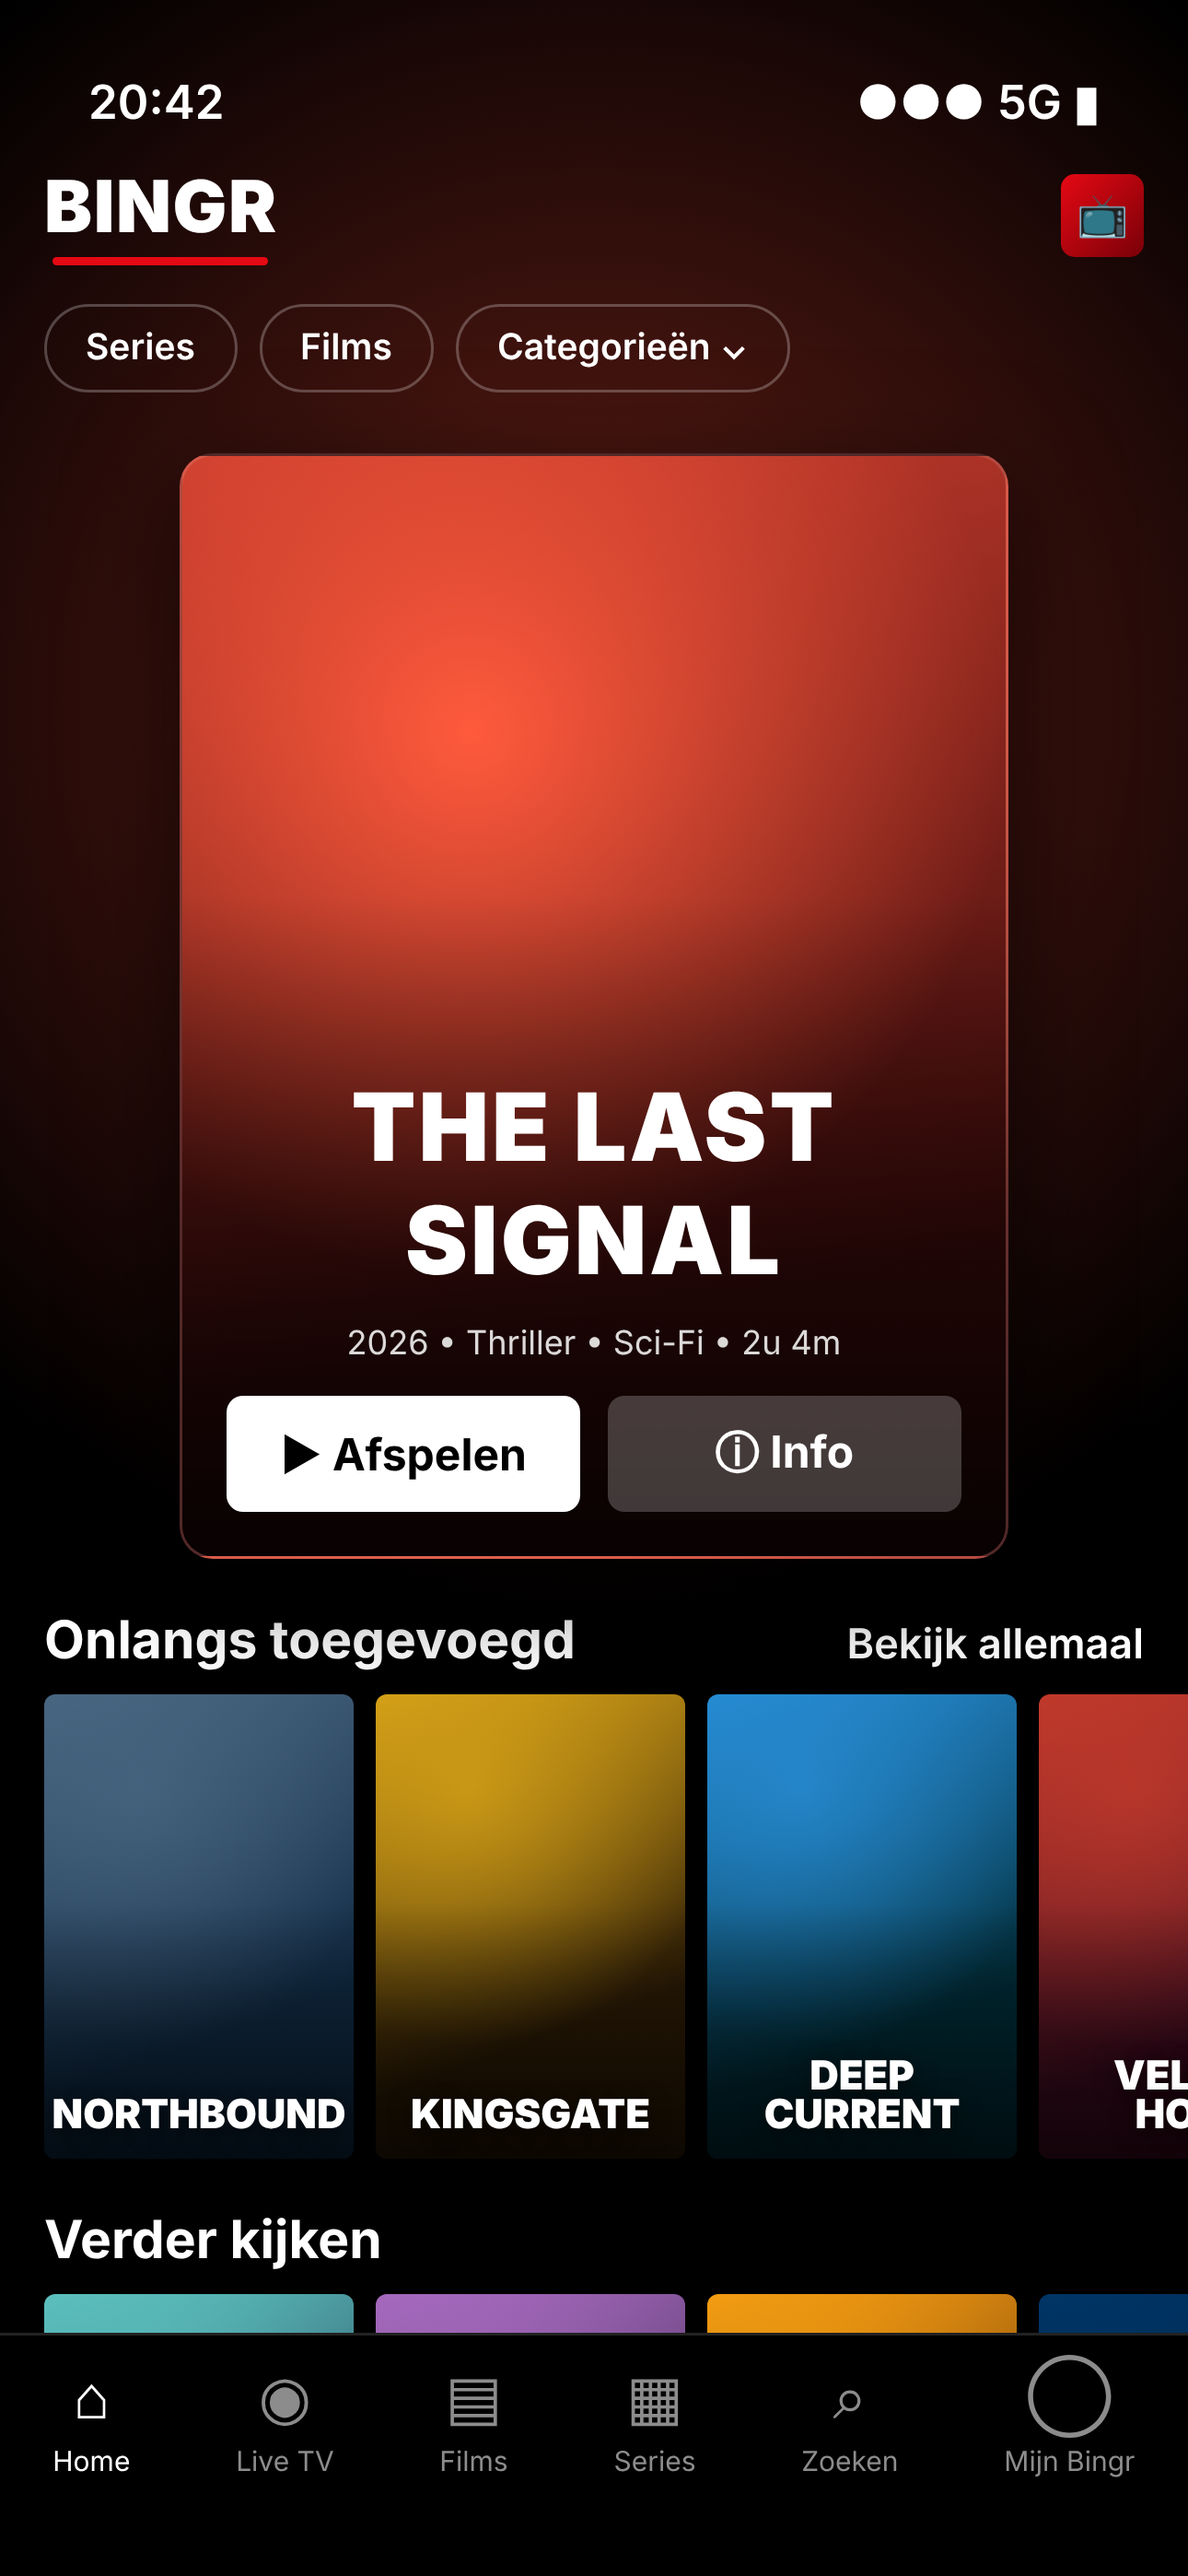
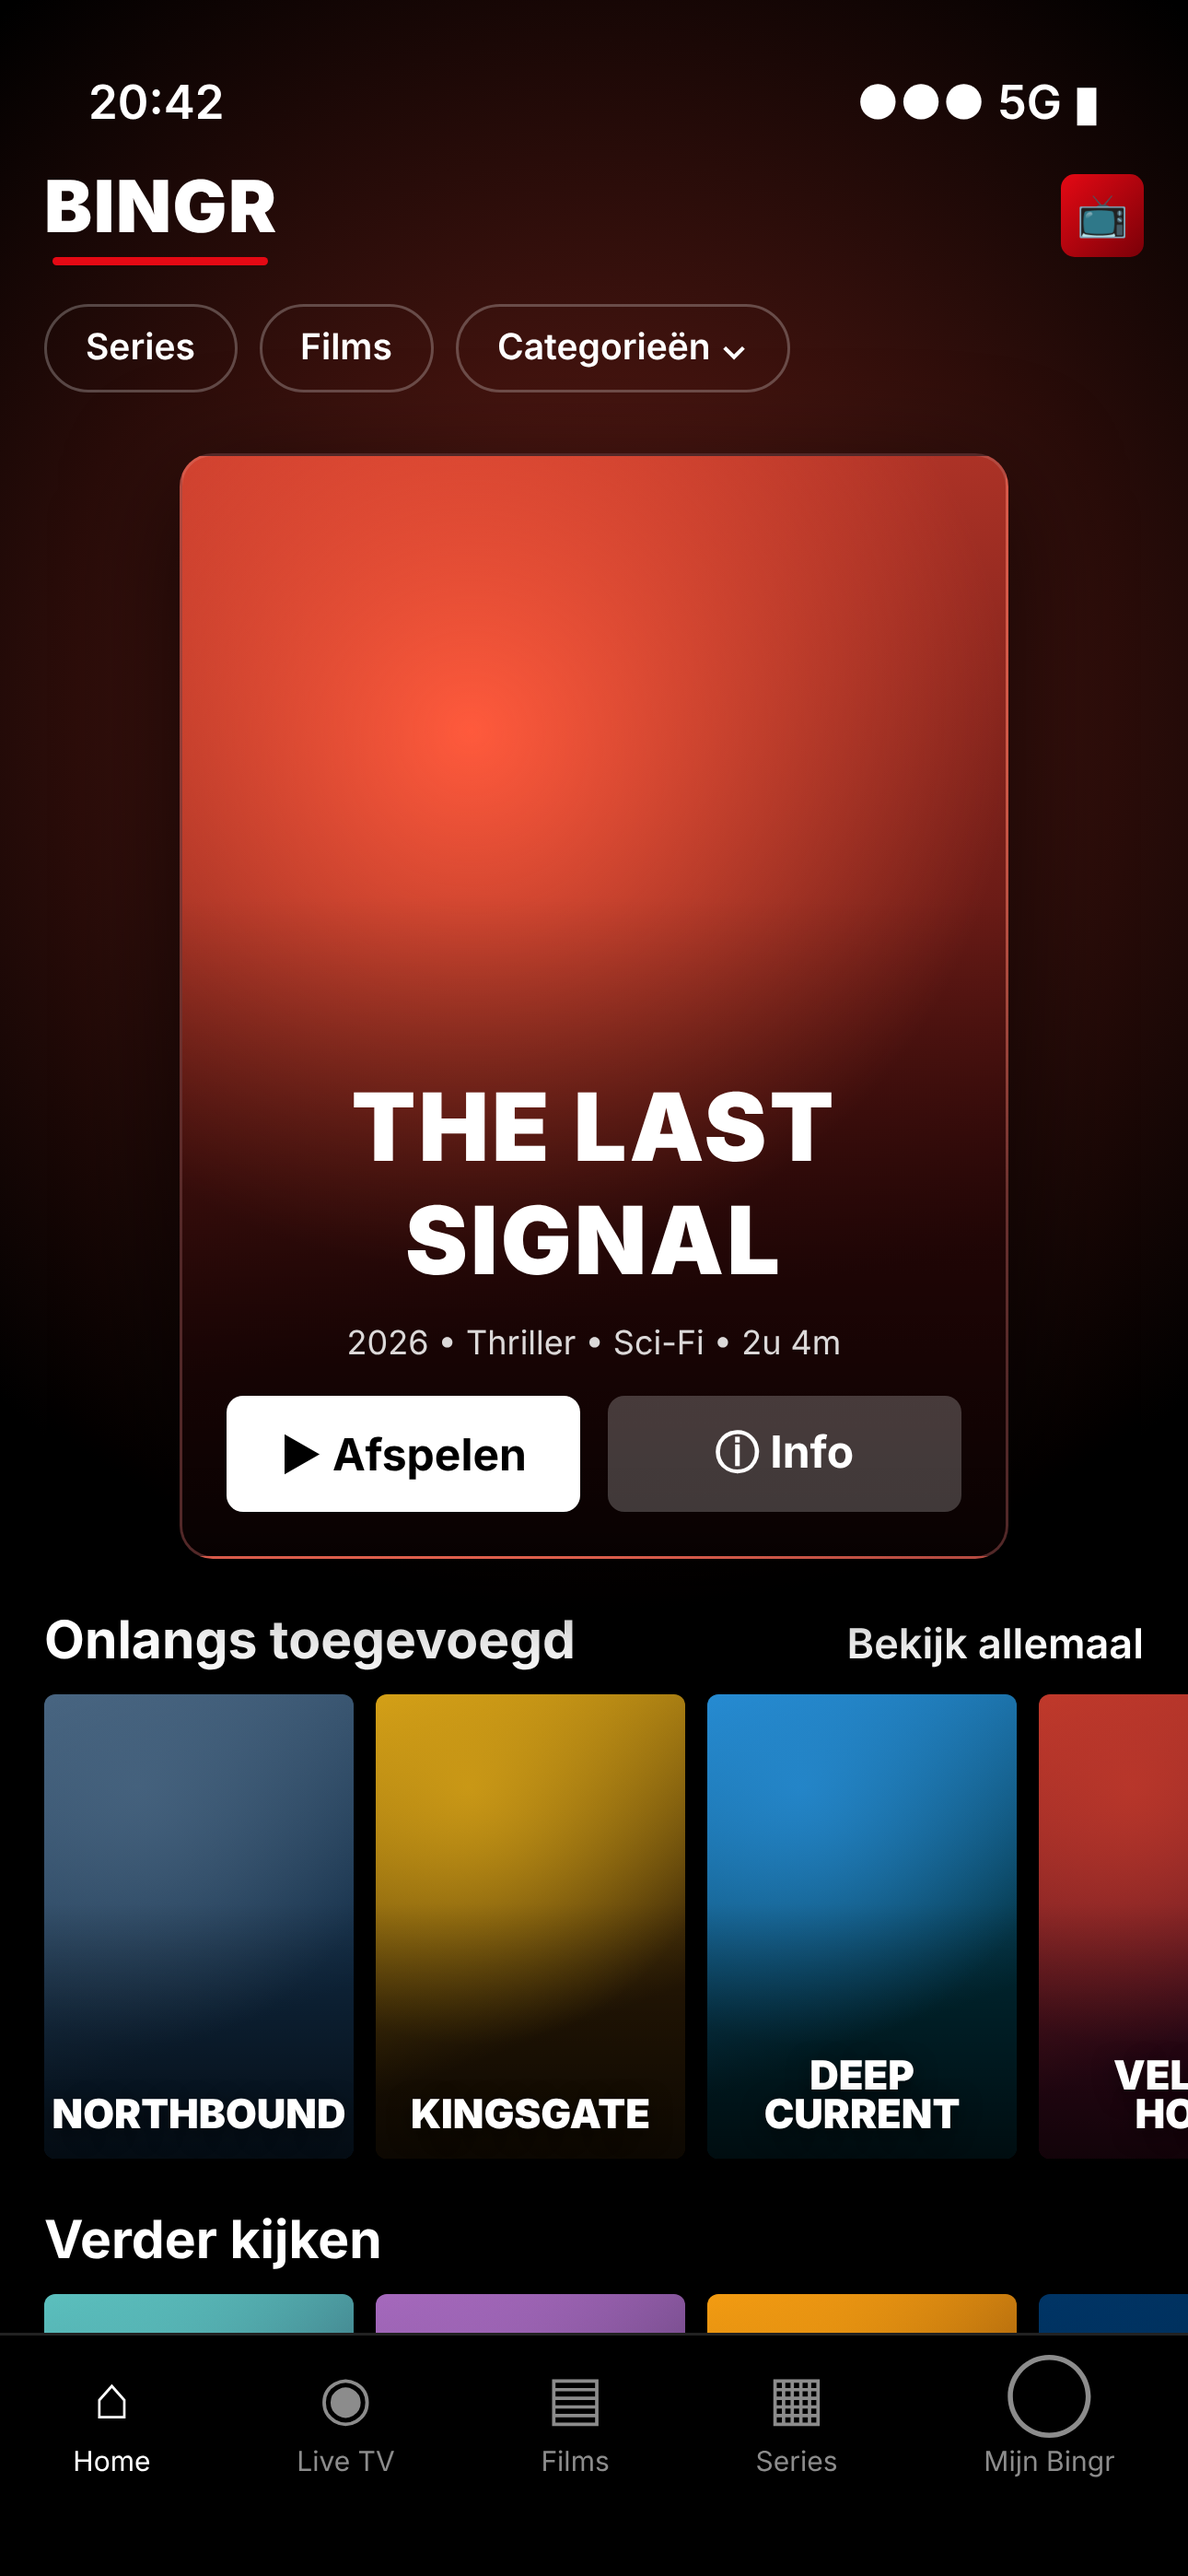
Screenshots: iPhone-tabbalk met 5 tabs
Claude-Session: https://claude.ai/code/session_01QoqqLVTvT2ekCDQmWshsy8

diff --git a/docs/mockups/mockups.html b/docs/mockups/mockups.html
@@ -82,7 +82,7 @@ const screens = {
    <div class="row">${rowh('Voor jou')}<div class="scroller">${[3,9,12,6].map((i,k)=>poster(i,112,{badge:k%2?'SERIE':'FILM'})).join('')}</div></div>
    <div class="row">${rowh('Top 10 series vandaag')}<div class="scroller">${[7,10,1].map((i,k)=>top10(i,k,118)).join('')}</div></div>
    </div>
-   <div class="tabbar">${["Home","Live TV","Films","Series","Zoeken","Mijn Bingr"].map((t,i)=>`<div class="${i==0?'on':''}"><span style="font-size:22px">${["⌂","◉","▤","▦","⌕","◯"][i]}</span>${t}</div>`).join('')}</div></div>`,
+   <div class="tabbar">${["Home","Live TV","Films","Series","Mijn Bingr"].map((t,i)=>`<div class="${i==0?'on':''}"><span style="font-size:22px">${["⌂","◉","▤","▦","◯"][i]}</span>${t}</div>`).join('')}</div></div>`,
  ios_detail:()=>`<div class="screen" style="background:#000;overflow:hidden">
    <div style="position:relative;height:560px;background:radial-gradient(circle at 50% 30%,#1abc9c,transparent 60%),linear-gradient(170deg,#16a085,#0b3d3a 70%)">
      <div style="position:absolute;inset:0;background:linear-gradient(transparent 35%,#000a 75%,#000)"></div>
@@ -121,7 +121,7 @@ const screens = {
      <div style="flex:1;min-width:0"><div style="font-weight:600;font-size:15px">${c[0]} <span style="color:var(--imdb);font-size:10px">★</span></div>
      <div style="font-size:12px;opacity:.8;margin:2px 0 3px">${c[3]}  ${c[2]}</div><div class="prog" style="width:220px"><i style="width:${c[5]*100}%"></i></div>
      <div style="font-size:11px;color:#b3b3b3;margin-top:3px">Straks ${c[4]}  ${["Sportjournaal","Talkshow","Soap","Showbizz","Nieuws","Studio Voetbal","IJszee"][i]}</div></div></div>`).join('')}
-   <div class="tabbar">${["Home","Live TV","Films","Series","Zoeken","Mijn Bingr"].map((t,i)=>`<div class="${i==1?'on':''}"><span style="font-size:22px">${["⌂","◉","▤","▦","⌕","◯"][i]}</span>${t}</div>`).join('')}</div></div>`,
+   <div class="tabbar">${["Home","Live TV","Films","Series","Mijn Bingr"].map((t,i)=>`<div class="${i==1?'on':''}"><span style="font-size:22px">${["⌂","◉","▤","▦","◯"][i]}</span>${t}</div>`).join('')}</div></div>`,
  ios_add:()=>`<div class="screen" style="background:#000"><div style="position:absolute;inset:60px 0 0 0;background:#141414;border-radius:14px 14px 0 0">
    <div style="display:flex;justify-content:space-between;padding:16px;font-size:17px"><span style="color:var(--red)">Annuleer</span><b>Afspeellijst toevoegen</b><span style="width:60px"></span></div>
    <div style="display:flex;justify-content:center;margin:6px 0 14px">${av(3,96,"Gast","#B3B3B3")}</div>
@@ -146,7 +146,7 @@ const screens = {
       ${CH.slice(0,9).map((c,r)=>{let x=0;const blocks=[[c[2],[120,60,180,90,60,150,150,120,90][r]],["Volgend programma",[150,120,90,150,180,120,60,150,120][r]],["Late show",200]];return `<div style="height:62px;position:relative;background:#101010;border-bottom:1px solid #000">${blocks.map((b,i)=>{const w=b[1];const el=`<div style="position:absolute;left:${x+1}px;top:2px;width:${w-3}px;height:56px;border-radius:4px;background:${i==0?'#3A1418':'#232323'};padding:6px 8px;overflow:hidden"><div style="font-size:12px;font-weight:600;white-space:nowrap">${b[0]}</div><div style="font-size:10px;color:#b3b3b3">${i==0?'20:00 – 21:00':'21:00 – 22:00'}</div>${i==1&&r==2?'<div style="position:absolute;top:4px;right:6px;color:var(--imdb);font-size:10px">🔔</div>':''}</div>`;x+=w;return el}).join('')}</div>`}).join('')}
       <div style="position:absolute;top:0;bottom:0;left:132px;width:2px;background:var(--red)"></div>
     </div></div>
-   <div class="tabbar">${["Home","Live TV","Films","Series","Zoeken","Mijn Bingr"].map((t,i)=>`<div class="${i==1?'on':''}"><span style="font-size:22px">${["⌂","◉","▤","▦","⌕","◯"][i]}</span>${t}</div>`).join('')}</div></div>`,
+   <div class="tabbar">${["Home","Live TV","Films","Series","Mijn Bingr"].map((t,i)=>`<div class="${i==1?'on':''}"><span style="font-size:22px">${["⌂","◉","▤","▦","◯"][i]}</span>${t}</div>`).join('')}</div></div>`,
  ios_settings:()=>`<div class="screen" style="background:#000"><div class="status"><span>20:46</span><span>●●● 5G ▮</span></div>
    <div style="font-size:34px;font-weight:800;padding:8px 16px 4px">Mijn Bingr</div>
    ${[["BIBLIOTHEEK",[["Kijkgeschiedenis","›"],["NAS & netwerk (SMB/DLNA)","›"]]],
@@ -157,14 +157,14 @@ const screens = {
       ["TAAL",[["App-taal","Systeem ⌄"]]]].map(sec=>`
      <div style="color:#8e8e93;font-size:13px;margin:18px 32px 6px">${sec[0]}</div>
      <div style="background:#1c1c1e;border-radius:12px;margin:0 16px">${sec[1].map((r,i)=>`<div style="display:flex;justify-content:space-between;padding:12px 16px;font-size:16px;${i?'border-top:1px solid #2c2c2e':''}"><span style="${r[0].startsWith('⟲')||r[0].startsWith('Wijzig')?'color:var(--red)':''}">${r[0]}</span><span style="color:${r[1]=='●'?'var(--green)':'#8e8e93'}">${r[1]=='●'?'⬤':r[1]}</span></div>`).join('')}</div>`).join('')}
-   <div class="tabbar">${["Home","Live TV","Films","Series","Zoeken","Mijn Bingr"].map((t,i)=>`<div class="${i==5?'on':''}"><span style="font-size:22px">${["⌂","◉","▤","▦","⌕","◯"][i]}</span>${t}</div>`).join('')}</div></div>`,
+   <div class="tabbar">${["Home","Live TV","Films","Series","Mijn Bingr"].map((t,i)=>`<div class="${i==4?'on':''}"><span style="font-size:22px">${["⌂","◉","▤","▦","◯"][i]}</span>${t}</div>`).join('')}</div></div>`,
  ios_top10:()=>`<div class="screen"><div class="status"><span>20:43</span><span>●●● 5G ▮</span></div>
    <div style="display:flex;justify-content:space-between;align-items:center;padding:6px 16px"><div class="logo" style="font-size:26px">BINGR</div><div class="avatar" style="width:30px;height:30px;font-size:15px;border-radius:50%;background:linear-gradient(135deg,#E50914,#7A0008)">📺</div></div>
    <div class="row">${rowh('Verder kijken',false)}<div class="scroller">${[4,8,2,11].map((i,k)=>poster(i,112,{prog:[62,25,80,40][k]})).join('')}</div></div>
    <div class="row">${rowh('Voor jou')}<div class="scroller">${[3,9,12,6].map((i,k)=>poster(i,112,{badge:k%2?'SERIE':'FILM'})).join('')}</div></div>
    <div class="row" style="margin-top:26px">${rowh('Top 10 series vandaag')}<div class="scroller">${[7,10,1].map((i,k)=>top10(i,k,118)).join('')}</div></div>
    <div class="row" style="margin-top:26px">${rowh('Top 10 films vandaag')}<div class="scroller">${[5,13,0].map((i,k)=>top10(i,k,118)).join('')}</div></div>
-   <div class="tabbar">${["Home","Live TV","Films","Series","Zoeken","Mijn Bingr"].map((t,i)=>`<div class="${i==0?'on':''}"><span style="font-size:22px">${["⌂","◉","▤","▦","⌕","◯"][i]}</span>${t}</div>`).join('')}</div></div>`,
+   <div class="tabbar">${["Home","Live TV","Films","Series","Mijn Bingr"].map((t,i)=>`<div class="${i==0?'on':''}"><span style="font-size:22px">${["⌂","◉","▤","▦","◯"][i]}</span>${t}</div>`).join('')}</div></div>`,
  ios_categories:()=>`<div class="screen" style="background:#000"><div class="status"><span>20:47</span><span>●●● 5G ▮</span></div>
    <div style="padding:6px 16px;color:var(--red);font-size:17px">‹ Mijn Bingr</div>
    <div style="font-size:30px;font-weight:800;padding:2px 16px 10px">Categorieën</div>
